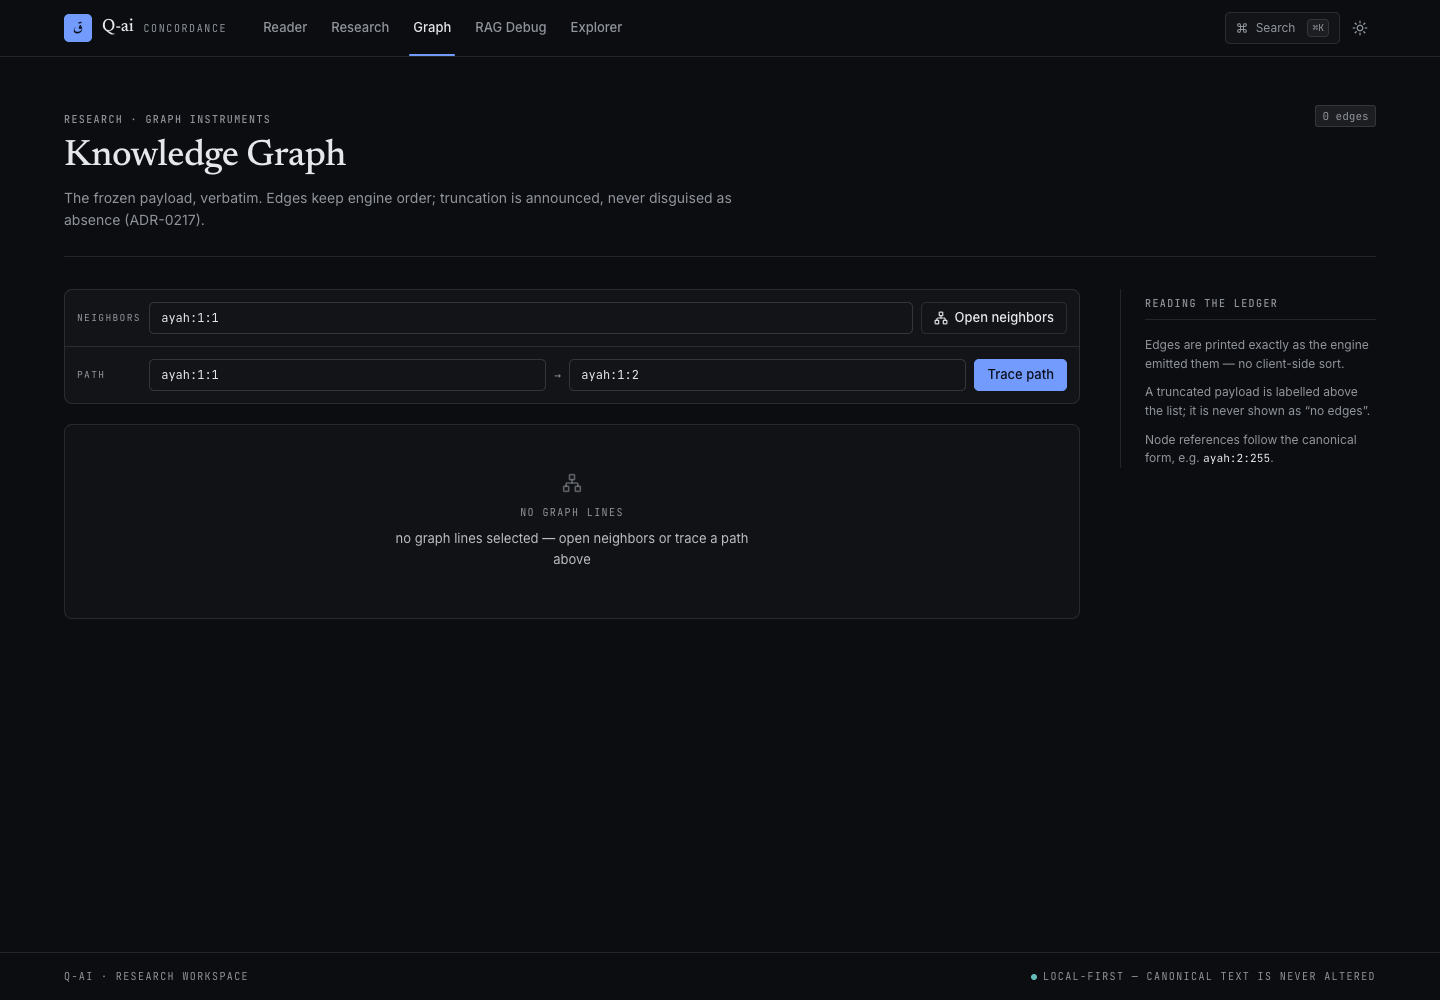
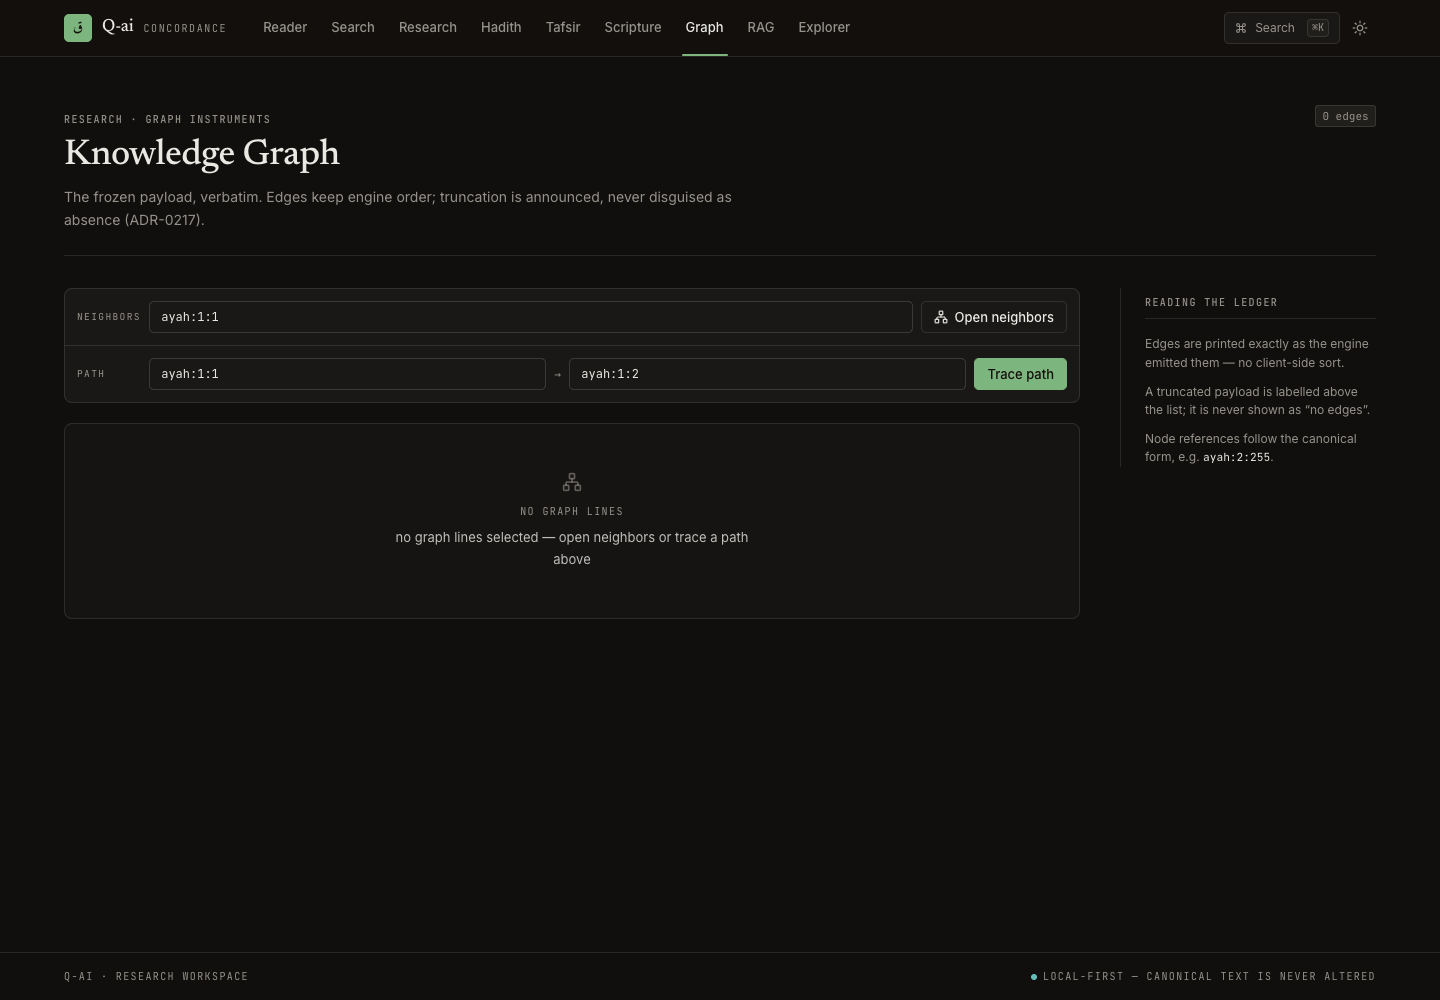
🎨 fix(ui): amend spec to approved green palette, fix type tiers + citations idle, re-capture evidence

diff --git a/web/src/views/CitationsWorkbenchView.tsx b/web/src/views/CitationsWorkbenchView.tsx
@@ -186,6 +186,14 @@ export default function CitationsWorkbenchView({ initialId }: { initialId: strin
         {openDisabled && <p className="w-full text-[0.75rem] text-muted-foreground">enter a citation id</p>}
       </form>
 
+      {verdict.status === 'idle' && (
+        <div className="mt-6">
+          <EmptyState title="no citation is open">
+            enter a stored citation id above — the verdict prints here verbatim.
+          </EmptyState>
+        </div>
+      )}
+
       {verdict.status === 'loading' && (
         <div className="mt-6">
           <LoadingLine label="verifying citation — against the server, never locally…" />
@@ -305,7 +313,7 @@ export default function CitationsWorkbenchView({ initialId }: { initialId: strin
                 lang="ar"
                 rows={3}
                 spellCheck={false}
-                className="field font-arabic text-base leading-loose"
+                className="field font-arabic leading-loose"
               />
             </div>
             <div dir="ltr">

diff --git a/web/src/views/WordsView.tsx b/web/src/views/WordsView.tsx
@@ -312,7 +312,7 @@ function FrequencyOutput({ label, data }: { label: string; data: unknown }) {
           No tokens matched under these rules — a proven zero, not an absence.
         </EmptyState>
       ) : (
-        <p className="font-mono text-2xl tabular-nums">{data.count}</p>
+        <p className="font-mono text-[0.9375rem] tabular-nums">{data.count}</p>
       )}
       <RulesBlock rules={data.rules} />
       <BySurahTable bySurah={data.by_surah} />
@@ -341,7 +341,7 @@ function DistributionOutput({ data }: { data: unknown }) {
           No tokens matched under these rules — a proven zero, not an absence.
         </EmptyState>
       ) : (
-        <p className="font-mono text-2xl tabular-nums">{frequencyReport.count}</p>
+        <p className="font-mono text-[0.9375rem] tabular-nums">{frequencyReport.count}</p>
       )}
       <RulesBlock rules={frequencyReport.rules} />
       {typeof report.partition_provenance === 'string' && (

diff --git a/web/src/index.css b/web/src/index.css
@@ -17,7 +17,7 @@
 
 /* ────────────────────────────────────────────────────────────────
    Q-ai · Concordance on green/white
-   Porcelain ground, ink type, one ultramarine instrument accent.
+   Warm-white ground, ink type, one forest-green instrument accent.
    Hairline structure instead of cards; serif for the written word,
    mono for references. Provenance colours are semantic, never décor.
    ──────────────────────────────────────────────────────────────── */

diff --git a/web/src/views/CitationsWorkbenchView.test.tsx b/web/src/views/CitationsWorkbenchView.test.tsx
@@ -106,6 +106,14 @@ describe('CitationsWorkbenchView verdict panel', () => {
   })
 })
 
+describe('CitationsWorkbenchView idle state', () => {
+  it('renders a named empty state before any citation is opened', () => {
+    render(<CitationsWorkbenchView initialId="" />)
+    expect(screen.getByText('no citation is open')).toBeDefined()
+    expect(screen.getByText(/the verdict prints here verbatim/)).toBeDefined()
+  })
+})
+
 describe('CitationsWorkbenchView tamper simulator', () => {
   it('editing one character flips the readout while the verdict is unchanged and issues no request', async () => {
     const calls = stubSuccess()

diff --git a/web/src/components/layout/page-header.tsx b/web/src/components/layout/page-header.tsx
@@ -18,7 +18,7 @@ export function PageHeader({
       <div className="flex flex-wrap items-start justify-between gap-x-8 gap-y-4">
         <div className="min-w-0 max-w-2xl">
           <p className="kicker mb-3">{eyebrow}</p>
-          <h1 className="display text-[1.9rem] text-foreground sm:text-[2.3rem]">{title}</h1>
+          <h1 className="display text-[1.9rem] text-foreground sm:text-[2.25rem]">{title}</h1>
           {lede !== undefined && (
             <p className="mt-2.5 text-[0.875rem] leading-relaxed text-muted-foreground">{lede}</p>
           )}

diff --git a/web/src/components/layout/site-header.tsx b/web/src/components/layout/site-header.tsx
@@ -85,7 +85,7 @@ export function SiteHeader({
           >
             <Command className="size-3" aria-hidden="true" />
             <span>Search</span>
-            <kbd className="ml-1 rounded border bg-muted px-1 font-mono text-[0.6rem] leading-4 text-muted-foreground">
+            <kbd className="ml-1 rounded border bg-muted px-1 font-mono text-[0.625rem] leading-4 text-muted-foreground">
               ⌘K
             </kbd>
           </button>

diff --git a/.planning/phases/13-web-ui-redesign/13-UI-SPEC.md b/.planning/phases/13-web-ui-redesign/13-UI-SPEC.md
@@ -12,7 +12,7 @@ future Q-ai screen follows.
 ## 1. Visual direction
 
 **Concordance** is a working instrument, not a dashboard and not a book.
-The page is a sheet of porcelain; type does the work; one saturated accent marks
+The page is a sheet of warm white; type does the work; one saturated accent marks
 the active instrument. A serif carries the written word (page titles, verse
 headings), Inter carries the interface, JetBrains Mono carries references,
 counts and raw output. Structure is drawn with hairlines and a margin column,
@@ -21,7 +21,7 @@ not with floating cards.
 Three rules that decide most questions:
 
 1. **The text is the interface.** No chrome competes with canonical Arabic.
-2. **One accent.** Deep indigo marks interactivity; provenance colours are the
+2. **One accent.** Forest green marks interactivity; provenance colours are the
    only other chromatic information and they are always semantic.
 Focal point: the page title (Newsreader display) anchors the eye on every
 screen; the margin column carries supporting controls and never competes.
@@ -32,44 +32,44 @@ alone.
 
 No template is the base. From `temp-inspire/` this pass keeps only ideas —
 provenance as layout vocabulary, a margin legend, one display size per page, a
-command surface — and rejects their shared left-sidebar/forest-green/parchment
+command surface — and rejects their shared left-sidebar/parchment/gold
 silhouette. Full analysis: `REFERENCE-ANALYSIS.md`.
 
 ## 3. Palette
 
-Light — porcelain and ink:
+Light — warm white and ink:
 
 | Token | Value | Role |
 |---|---|---|
-| `--background` | `oklch(0.985 0.0025 265)` | page ground |
-| `--foreground` | `oklch(0.205 0.012 265)` | primary text |
+| `--background` | `oklch(0.99 0.004 90)` | page ground (warm white) |
+| `--foreground` | `oklch(0.22 0.012 120)` | primary text (ink) |
 | `--card` | `oklch(1 0 0)` | control surfaces, reading slab |
-| `--muted` | `oklch(0.966 0.0035 265)` | quiet fills, code chips |
-| `--muted-foreground` | `oklch(0.505 0.012 265)` | secondary text, metadata |
+| `--muted` | `oklch(0.965 0.006 100)` | quiet fills, code chips |
+| `--muted-foreground` | `oklch(0.5 0.012 120)` | secondary text, metadata |
 | `--border` | `oklch(0.905 0.005 265)` | every hairline |
-| `--input` | `oklch(0.885 0.006 265)` | field stroke |
-| `--primary` | `oklch(0.478 0.199 266)` | the instrument accent (indigo) |
-| `--primary-foreground` | `oklch(0.99 0.002 265)` | text on accent |
-| `--accent` | `oklch(0.955 0.018 266)` | selected row / hover wash |
-| `--ring` | `oklch(0.55 0.17 266)` | focus ring |
+| `--input` | `oklch(0.88 0.01 100)` | field stroke |
+| `--primary` | `oklch(0.42 0.09 145)` | the instrument accent (forest green) |
+| `--primary-foreground` | `oklch(0.99 0.002 90)` | text on accent |
+| `--accent` | `oklch(0.95 0.018 145)` | selected row / hover wash |
+| `--ring` | `oklch(0.5 0.1 145)` | focus ring |
 | `--destructive` | `oklch(0.545 0.2 27)` | failure only |
 
-Split: 60 % porcelain ground, 30 % ink text and rules, 10 % indigo accent
-reserved for interactive states and the active route. Provenance colours are
+Split: 60 % warm-white ground, 30 % ink text and rules, 10 % forest-green
+accent reserved for interactive states and the active route. Provenance colours are
 semantic and never count toward the split.
 
-Dark — ink and chalk (not an inversion):
+Dark — warm charcoal (not an inversion):
 
 
 | Token | Value |
 |---|---|
-| `--background` | `oklch(0.158 0.008 265)` |
-| `--foreground` | `oklch(0.928 0.005 265)` |
-| `--card` | `oklch(0.192 0.009 265)` |
+| `--background` | `oklch(0.17 0.006 60)` |
+| `--foreground` | `oklch(0.93 0.006 90)` |
+| `--card` | `oklch(0.21 0.006 60)` |
 | `--border` | `oklch(1 0 0 / 10%)` |
-| `--primary` | `oklch(0.705 0.152 266)` (lifted for contrast on dark) |
-| `--accent` | `oklch(0.262 0.035 266)` |
-| `--code-bg` | `oklch(0.135 0.008 265)` |
+| `--primary` | `oklch(0.72 0.1 145)` (lifted for contrast on dark) |
+| `--accent` | `oklch(0.28 0.03 145)` |
+| `--code-bg` | `oklch(0.14 0.006 60)` |
 
 ### Provenance (semantic, never decorative)
 
@@ -105,6 +105,16 @@ Newsreader carries titles and the wordmark only — never UI controls. No font
 size below 0.625 rem, and nothing is letter-spaced except mono caps. All sizes
 are one of four declared tiers; intermediate steps stay within a tier.
 
+Documented exceptions (density or platform, never style):
+- Search/research hit snippets render Arabic at `text-lg` (1.125 rem,
+  `leading-[1.95]`) — list density forbids the 1.75 rem ayah tier in a ruled
+  result row; the snippet is a finding aid, not a reading text.
+- The reader size stepper previews `sm/md/lg` with `text-xs/text-base/text-xl`
+  "A" glyphs — the glyphs demonstrate the sizes, they are not a type tier.
+- Vendored `input`/`textarea` primitives use `text-base` falling back to
+  `md:text-sm` — the 16 px base suppresses iOS focus zoom; the `.field` atom
+  itself stays 13 px.
+
 ## 5. Spacing scale
 
 Tailwind 4 px base; the interface uses `4, 8, 16, 24, 32, 48 px`
@@ -131,9 +141,9 @@ permitted for border alignment only and are not spacing.
 
 Horizontal, because the product has nine destinations:
 
-- Left: 28 px indigo monogram (ق), `Q-ai` in Newsreader, “CONCORDANCE” in mono
+- Left: 28 px forest-green monogram (ق), `Q-ai` in Newsreader, “CONCORDANCE” in mono
   caps from `lg`.
-- Links: 13 px, muted → ink on hover; the active route carries a 2 px indigo
+- Links: 13 px, muted → ink on hover; the active route carries a 2 px forest-green
   rule inset from the link, `aria-current="page"`.
 - Right: command trigger (`Search ⌘K` from `sm`), theme toggle, and on `<md` a
   menu button that expands an in-flow navigation panel (`aria-expanded`,
@@ -176,7 +186,7 @@ placeholder token.
 
 - Default: card surface, hairline, ink label. Hover raises to `--muted` and
   `--input`; disabled drops to 50 %.
-- Primary: solid indigo with white label; hover mixes 12 % black. Exactly one
+- Primary: solid forest green with white label; hover mixes 12 % black. Exactly one
   primary action per region (run, dispatch, open).
 - Quiet: transparent, muted label; used for icon-only header controls.
 - Focus: 2 px `--ring` outline at 2 px offset, always visible, never removed.
@@ -209,8 +219,8 @@ stay in the page.
 ## 13. Themes
 
 `next-themes` with `class` strategy (`defaultTheme: system`, persisted in
-`localStorage`). Dark is designed separately: deeper card surfaces, lifted
-indigo, 10 % white borders, no shadow tricks. Provenance hues are lifted one
+`localStorage`). Dark is designed separately: warm-charcoal surfaces, lifted
+forest green, 10 % white borders, no shadow tricks. Provenance hues are lifted one
 step for legibility. The theme toggle lives in the top rail and announces its
 action.
 
@@ -276,6 +286,8 @@ Concrete strings the implementation uses; new surfaces follow the same voice
   - Graph, no edges: "No graph lines" / "no graph lines selected — open
     neighbors or trace a path above"
   - RAG, sealed: "sealed" / "RAG not configured / unavailable"
+  - Citations, none open: "no citation is open" / "enter a stored citation id
+    above — the verdict prints here verbatim"
 - Errors (role="alert", solution path): "citation mismatch — the stored quote
   does not match the canonical text — {detail}"; "No edition is loaded for this
   reference — register and activate a Quran edition, then reopen this deep

diff --git a/docs/ui-redesign/IMPLEMENTATION-REPORT.md b/docs/ui-redesign/IMPLEMENTATION-REPORT.md
@@ -194,3 +194,33 @@ spa_non_canonical_components_wear_no_canonical_class` fails because it
 `expect("component exists")` on `web/src/components/WordInspector.tsx`,
 deleted in `f86be81` before these waves. One-line fix (drop the deleted
 path from the array) left undone — `crates/` is off-limits for UI plans.
+
+## 10. Audit-fix pass (2026-11-01, after 13-UI-REVIEW.md 15/24)
+
+All three priority fixes applied; the approved forest-green palette was kept,
+the contract was amended to match it:
+
+- **Color contract (BLOCKER).** `13-UI-SPEC.md` §§1–3, 7, 9, 13 now specify the
+  shipped values: `--primary oklch(0.42 0.09 145)`, `--accent
+  oklch(0.95 0.018 145)`, `--ring oklch(0.5 0.1 145)`, warm-white ground
+  `oklch(0.99 0.004 90)`, warm-charcoal dark theme — and reword the §2
+  reference rejection so it no longer lists forest green. No shipped token
+  changed; the stale `index.css` header comment ("ultramarine") now reads
+  forest green.
+- **Typography tiers.** `page-header.tsx` display cap `2.3rem` → `2.25rem`;
+  `WordsView` count numerals `text-2xl` → tier-exact `text-[0.9375rem]` mono
+  tabular (2 sites); `CitationsWorkbenchView` tamper textarea drops the
+  `text-base` override back to the 13 px `.field`; `site-header` kbd
+  `text-[0.6rem]` → floor `text-[0.625rem]`. Search/research Arabic snippets
+  stay `text-lg` under a new §4 list-density exception, alongside documented
+  exceptions for the size-stepper preview glyphs and the vendored input
+  iOS-zoom guard. New §19 string: "no citation is open".
+- **Citations pre-run.** The idle branch renders `<EmptyState title="no
+  citation is open">` with the verbatim-print sentence, mirroring
+  Tools/RAGDebug; new unit test pins it.
+- **Evidence.** All 13 routes re-captured light + dark (26 shots) plus 4
+  mobile route shots, mobile nav, and command palette — 34 current
+  screenshots, zero page errors across all captures. Darklegitimacy
+  spot-checked by luminance sampling.
+- Validation: `npm run build` passes; `npx vitest run` **20 files / 151
+  tests pass** (was 150; +1 idle-state test).
